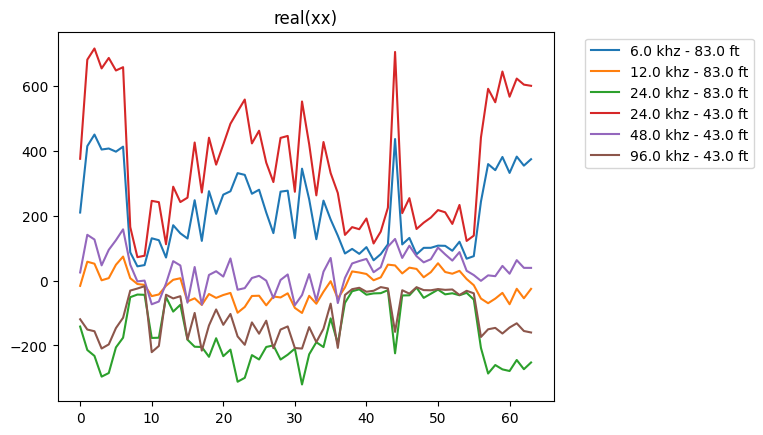
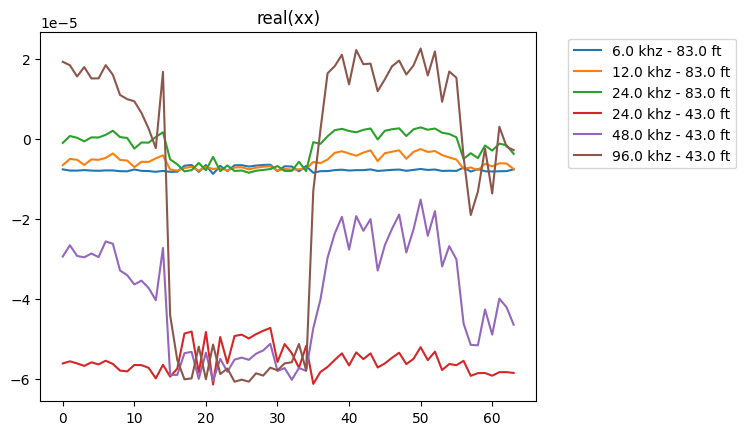
Added scalers to the converter from vector

diff --git a/gan_update/vector_to_log.py b/gan_update/vector_to_log.py
@@ -36,7 +36,7 @@ class FullModel:
         # Initialize EM model
         self.proxi_input_shape = proxi_input_shape
         self.em_model = image_to_log.EMProxy(proxi_input_shape, proxi_output_shape,
-                                             checkpoint_path=proxi_save_file).to(device)
+                                             checkpoint_path=proxi_save_file, scaler=proxi_scalers).to(device)
 
         # in case the model needs to be put in the eval mode
         self.em_model.eval()
@@ -98,6 +98,7 @@ if __name__ == "__main__":
     output_shape = (6, 18)
 
     weights_folder = "../../UTA-proxy/training_results"
+    scalers_folder = weights_folder
     # check path by converting string to path
     model_index = 770
     full_em_model_file_name = f'{weights_folder}/checkpoint_{model_index}.pth'
@@ -106,6 +107,7 @@ if __name__ == "__main__":
         latent_size=vec_size,
         gan_save_file=file_name,
         proxi_save_file=full_em_model_file_name,
+        proxi_scalers=scalers_folder,
         proxi_input_shape=input_shape,
         proxi_output_shape=output_shape,
         gan_output_height=64,
